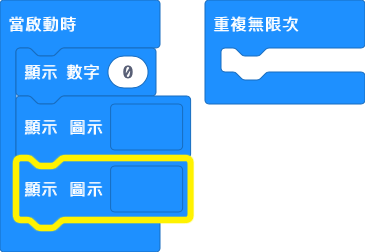
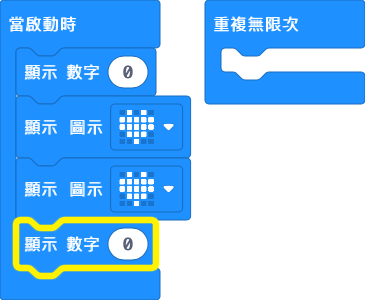
Update main.blocks, main.ts

Changed region(s): [[0.0, 0.0556, 1.0, 0.9444]]

diff --git a/main.ts b/main.ts
@@ -1,6 +1,7 @@
 basic.showNumber(0)
 basic.showIcon(IconNames.Heart)
 basic.showIcon(IconNames.Heart)
+basic.showNumber(0)
 basic.forever(function () {
 	
 })
